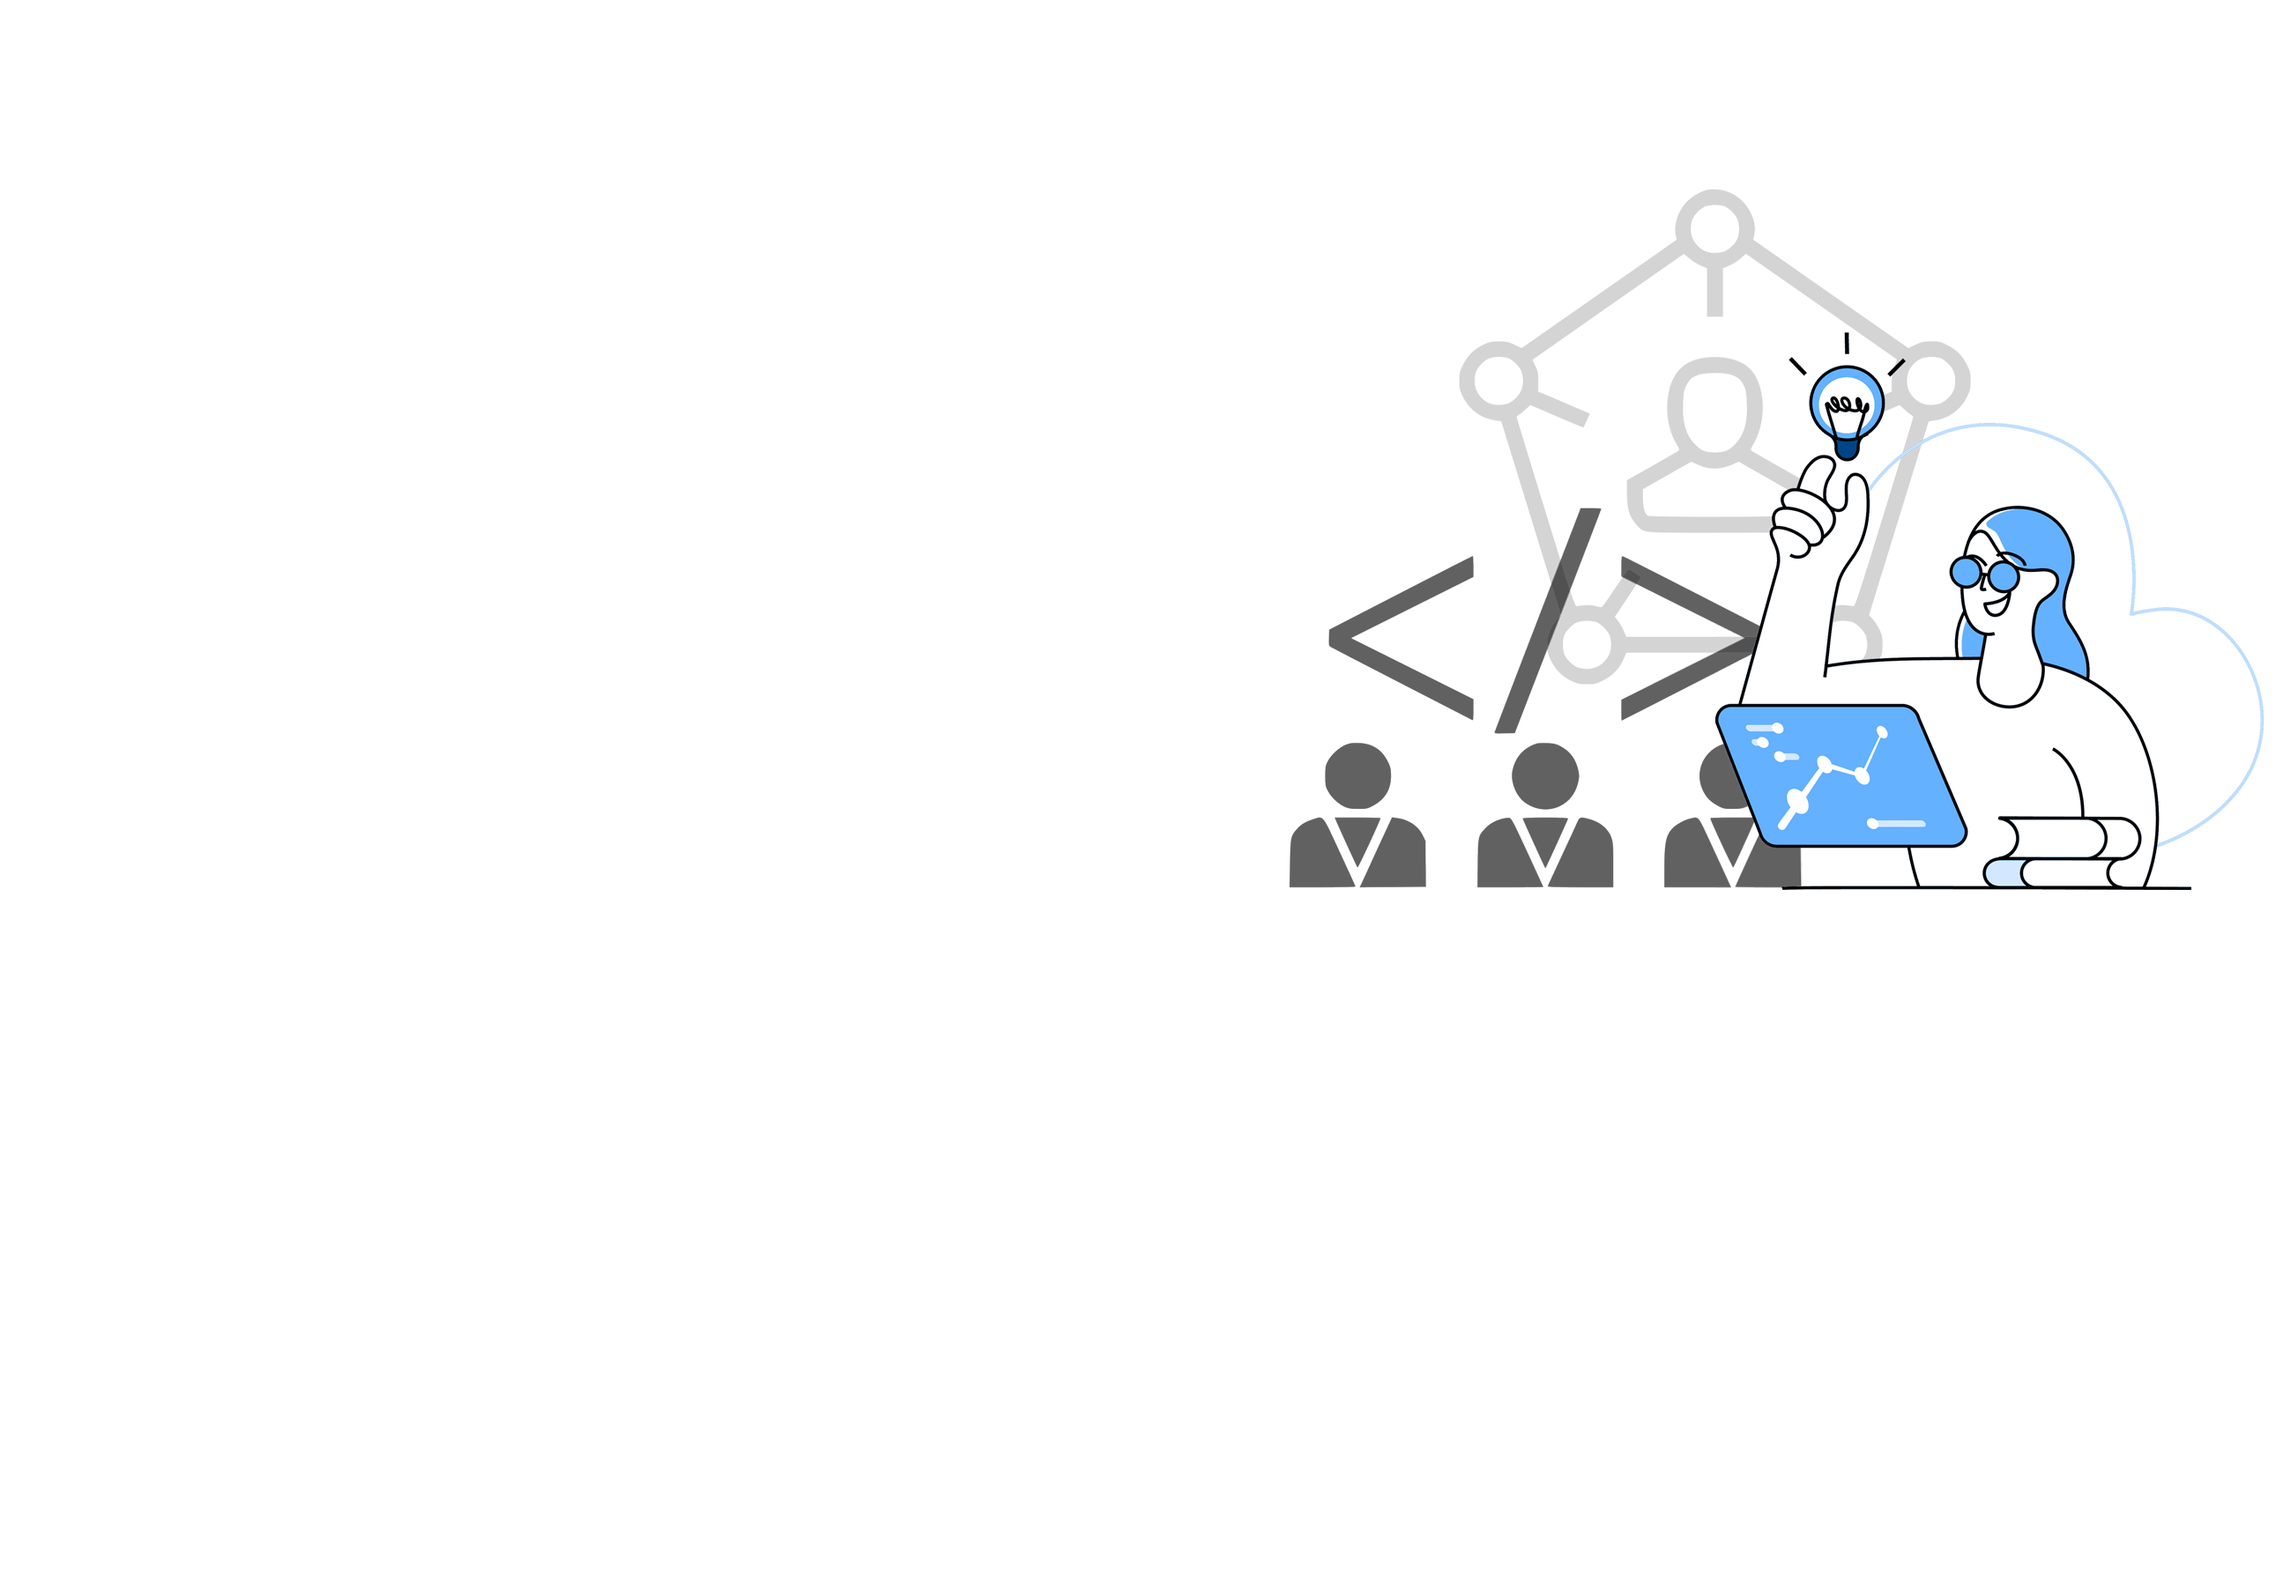
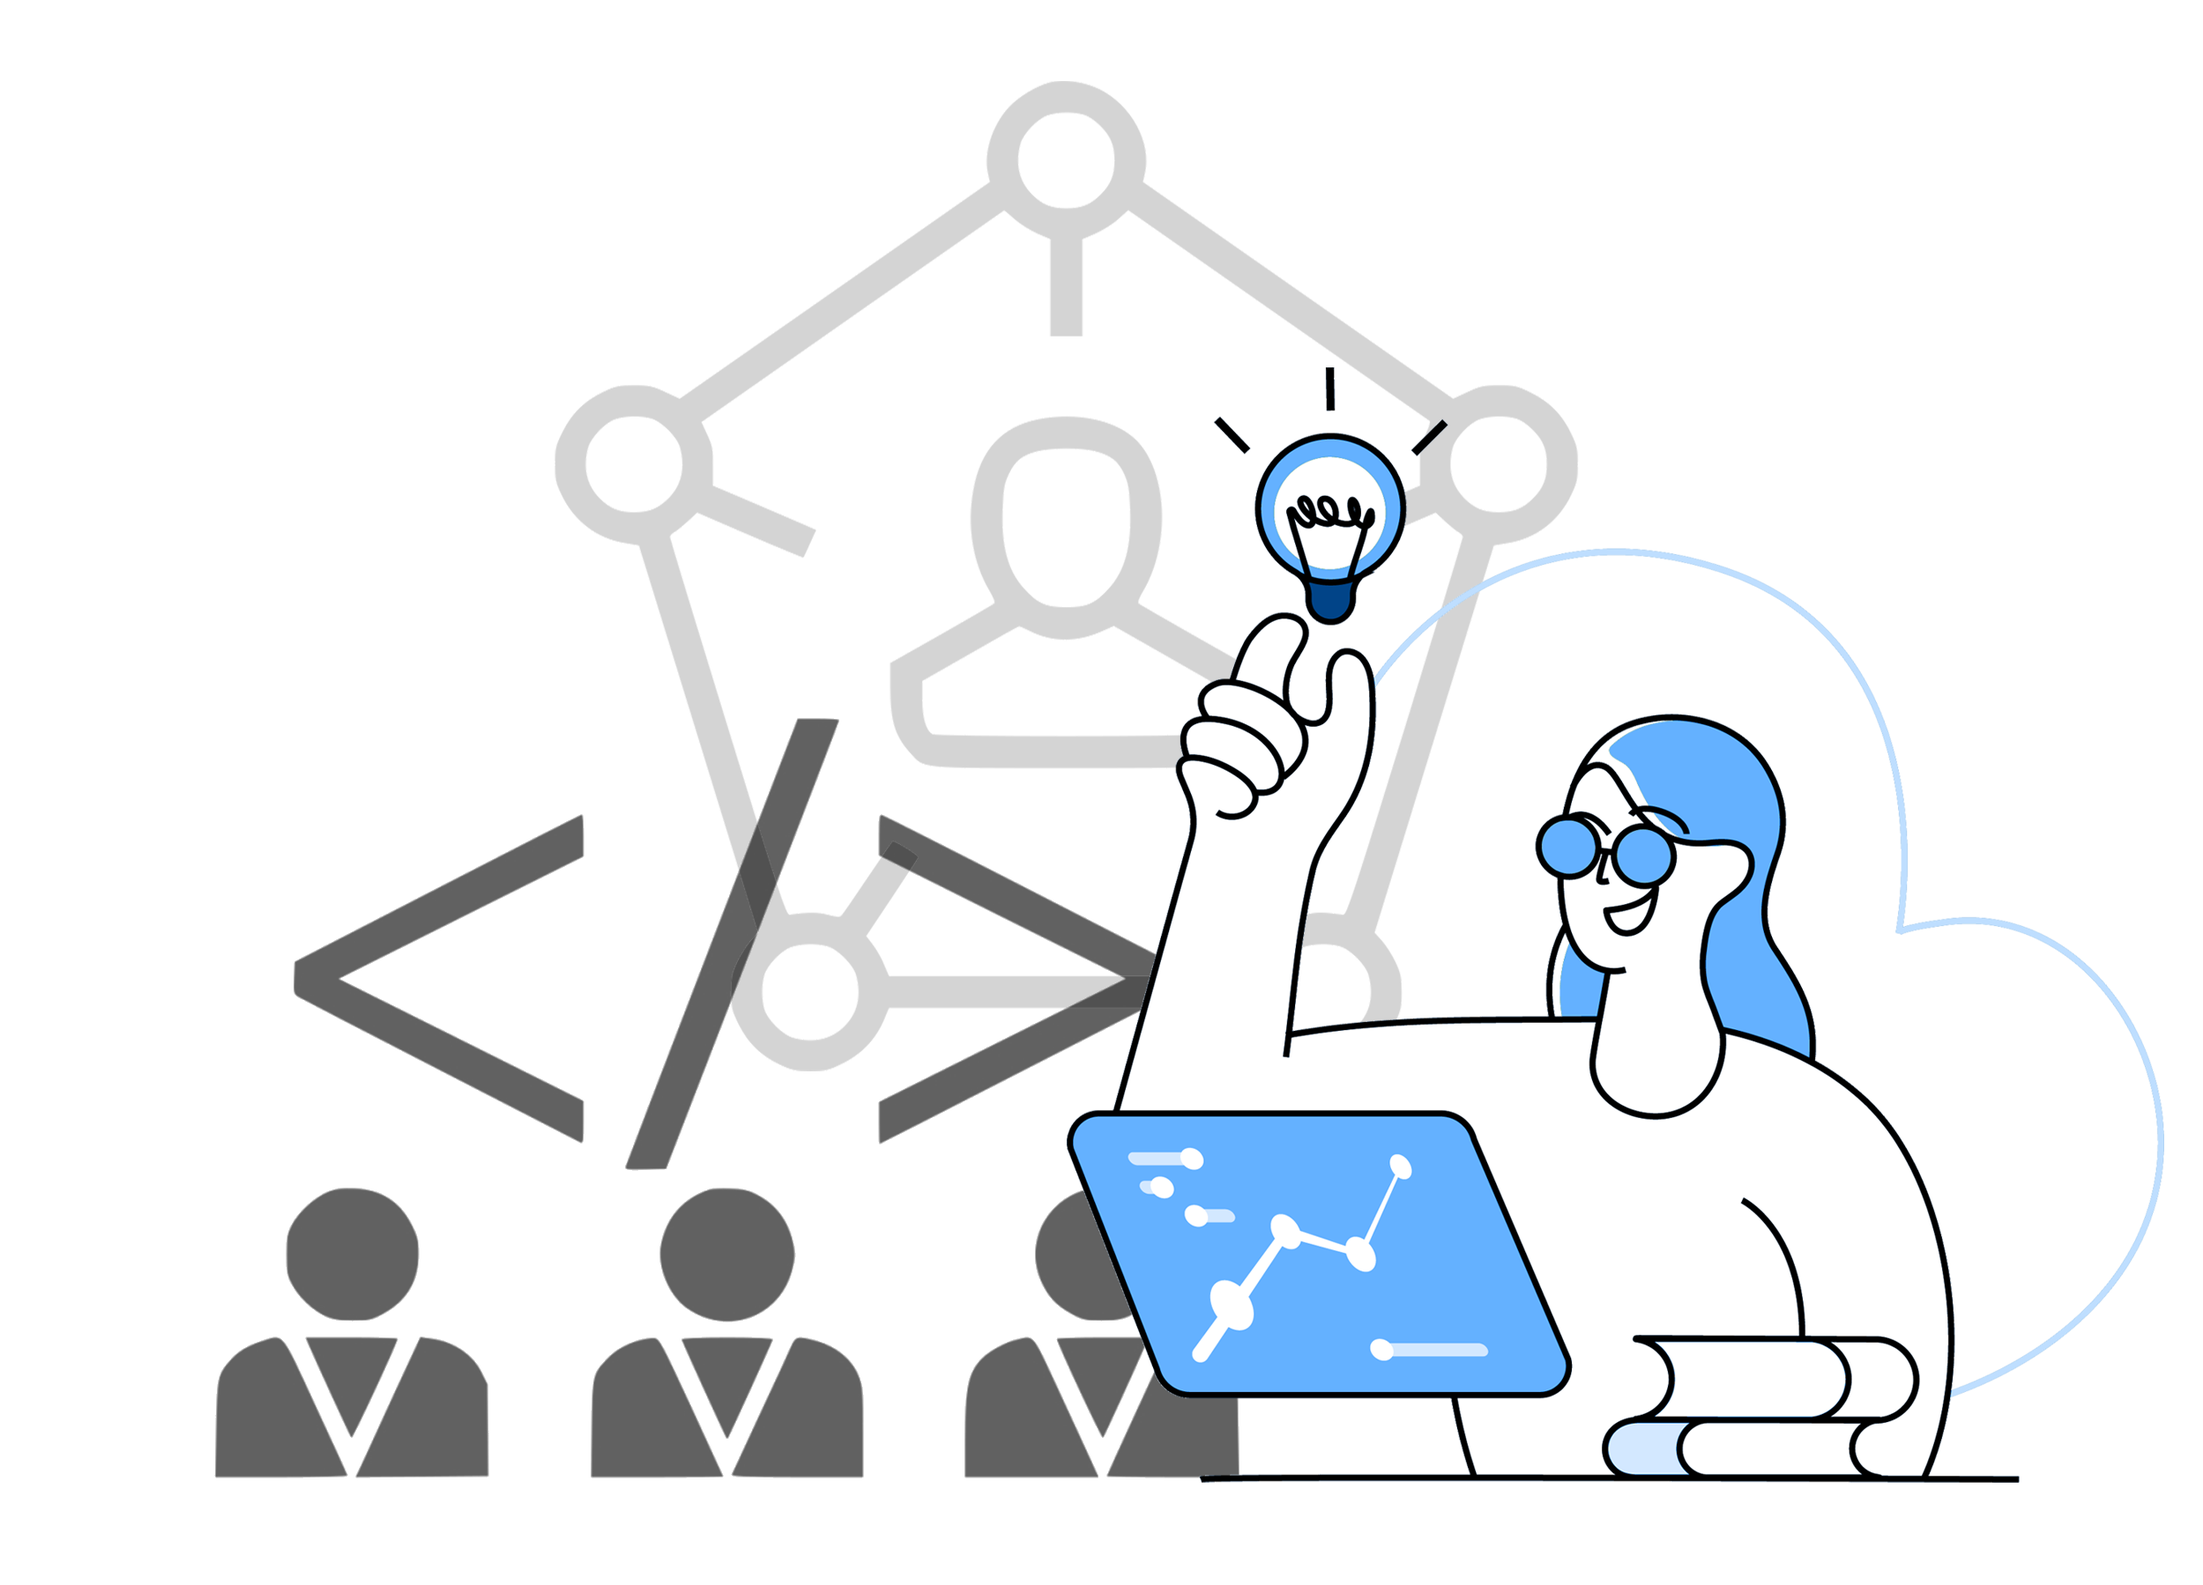
Modify image spacing on the home page

diff --git a/src/pages/Home/HomeStyles.css b/src/pages/Home/HomeStyles.css
@@ -35,7 +35,8 @@ input {
   position: relative;
   background-repeat: no-repeat;
   background-size: cover;
-  background-position: center top;
+  background-position: 95% 50%;
+  background-size: 600px;
   background-image: url('../../assets/images/background3.png');
 }
 nav {
@@ -407,7 +408,7 @@ nav .menu-btn,
 }
 @media (max-width: 1190px) {
   #main {
-    background-size: 1150px !important;
+    /* background-size: 1150px !important; */
   }
   .name {
     left: 50%;
@@ -447,7 +448,7 @@ nav .menu-btn,
 
 @media (max-width: 970px) {
 
-  .main {
+  #main {
     background-image: none;
   }
  
@@ -457,7 +458,7 @@ nav .menu-btn,
     transform: translate(-50%, -50%);
   }
   .about-image {
-    display:inline-block
+    display: none;
   }
   .cv-btn {
     margin-left: 27%;
